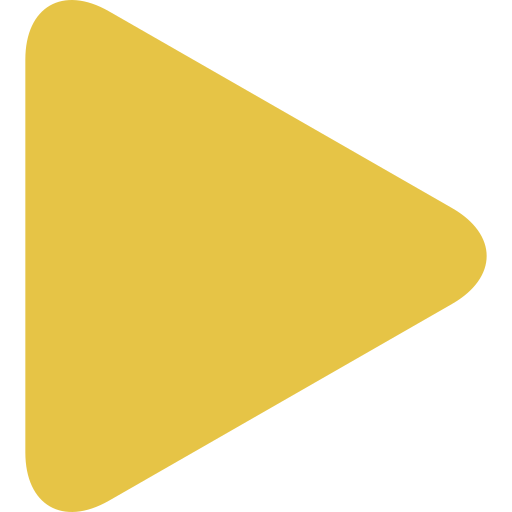
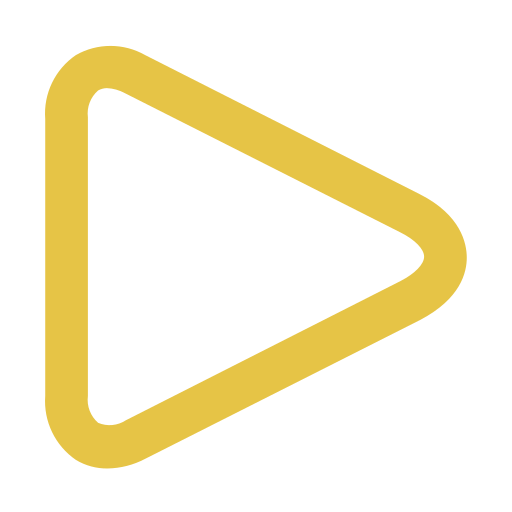
feat(assets): 全面更新投票標籤、愛心、面具、記錄與自訂庫之新版邊框圖示
- 將 vote-tag.png 替換為 vote-tag-edge.png
- 將 heart.png 替換為 heart-edge.png
- 將 mask.png 替換為 mask-edge.png
- 將 history.png 替換為 history-edge.png
- 將 anonymous.png 替換為 character-lib.png
- 於 tests/scriptSetup.test.js 同步更新圖檔路徑單元測試斷言
feat(assets): 全面更新投票標籤、愛心、面具、記錄與自訂庫之新版邊框圖示

- 將 vote-tag.png 替換為 vote-tag-edge.png
- 將 heart.png 替換為 heart-edge.png
- 將 mask.png 替換為 mask-edge.png
- 將 history.png 替換為 history-edge.png
- 將 anonymous.png 替換為 character-lib.png
- 於 tests/scriptSetup.test.js 同步更新圖檔路徑單元測試斷言

diff --git a/src/components/SettingsPanel.vue b/src/components/SettingsPanel.vue
@@ -30,7 +30,7 @@
           <div class="stat-card" title="有效票數">
             <!-- <span class="stat-icon">🗳</span> -->
             <span class="stat-icon">
-              <img src="/pic/vote-tag.png" alt="有效票數" class="stat-img img-vote-yes" />
+              <img src="/pic/vote-tag-edge.png" alt="有效票數" class="stat-img img-vote-yes" />
             </span>
             <span class="stat-card-val">{{ totalVotes }}</span>
             <span class="stat-card-label">有效票數</span>
@@ -38,7 +38,7 @@
           <div class="stat-card" title="存活人數">
             <!-- <span class="stat-card-icon">❤</span> -->
             <span class="stat-icon">
-              <img src="/pic/heart.png?v=2" alt="有效票數" class="stat-img img-heart" />
+              <img src="/pic/heart-edge.png" alt="有效票數" class="stat-img img-heart" />
             </span>
             <span class="stat-card-val">{{ gameStore.alive }}</span>
             <span class="stat-card-label">存活人數</span>
@@ -68,7 +68,7 @@
           </button>
 
           <button class="grid-item" @click="openVoting">
-            <span class="grid-icon"><img src="/pic/vote-tag.png" class="grid-img" /></span>
+            <span class="grid-icon"><img src="/pic/vote-tag-edge.png" class="grid-img" /></span>
             <span class="grid-label">投票面板</span>
           </button>
 
@@ -86,7 +86,7 @@
           </button>
 
           <button class="grid-item" @click="openGameLog">
-            <span class="grid-icon"><img src="/pic/history.png" class="grid-img" /></span>
+            <span class="grid-icon"><img src="/pic/history-edge.png" class="grid-img" /></span>
             <span class="grid-label">對局記錄</span>
           </button>
 
@@ -101,7 +101,7 @@
           </button>
 
           <button class="grid-item" @click="openCharacterEditor">
-            <span class="grid-icon"><img src="/pic/anonymous.png" class="grid-img" /></span>
+            <span class="grid-icon"><img src="/pic/character-lib.png" class="grid-img" /></span>
             <span class="grid-label">自訂庫</span>
           </button>
 
@@ -161,7 +161,7 @@
           </button>
 
           <button class="grid-item" @click="restoreDefaultCharacters">
-            <span class="grid-icon"><img src="/pic/anonymous.png" class="grid-img" /></span>
+            <span class="grid-icon"><img src="/pic/character-lib.png" class="grid-img" /></span>
             <span class="grid-label">重置預設角色</span>
           </button>
 

diff --git a/src/components/PlayerControlSheet.vue b/src/components/PlayerControlSheet.vue
@@ -38,20 +38,20 @@
           <div class="action-grid">
             <template v-if="player.is_alive">
               <button class="action-btn death-btn" @click="handleKill">
-                <img src="/pic/half.png" class="action-btn-img" />
+                <img src="/pic/skull.png" class="action-btn-img" />
                 <span class="label">死亡</span>
                 <span v-if="isProtected" class="warning-badge" title="注意：該玩家目前有保護標記">⚠被保護</span>
               </button>
             </template>
             <template v-else>
               <button class="action-btn revive-btn" @click="handleRevive">
-                <img src="/pic/heart.png?v=2" class="action-btn-img" />
+                <img src="/pic/heart-edge.png" class="action-btn-img" />
                 <span class="label">復活</span>
               </button>
             </template>
 
             <button class="action-btn role-btn" @click="handleRolePicker">
-              <img src="/pic/mask.png" class="action-btn-img" />
+              <img src="/pic/mask-edge.png" class="action-btn-img" />
               <span class="label">變更角色</span>
             </button>
 
@@ -70,7 +70,7 @@
                 @click="handleNominateHim"
                 :disabled="player.is_nominated"
               >
-                <img src="/pic/vote-tag.png" class="action-btn-img" />
+                <img src="/pic/vote-tag-edge.png" class="action-btn-img" />
                 <span class="label">被提名</span>
               </button>
             </template>

diff --git a/src/components/StatusBar.vue b/src/components/StatusBar.vue
@@ -69,14 +69,14 @@
         <span class="stat-item votes" v-if="gameStore.phase === 'Day'" title="有效票數">
           <!-- <span class="stat-icon">🗳</span> -->
           <span class="stat-icon">
-            <img src="/pic/vote-tag.png" alt="有效票數" class="stat-img img-vote-yes" />
+            <img src="/pic/vote-tag-edge.png" alt="有效票數" class="stat-img img-vote-yes" />
           </span>
           <span class="stat-num">{{ totalVotes }}</span>
         </span>
         <span class="stat-item alive" title="存活人數">
           <!-- <span class="stat-icon">❤</span> -->
           <span class="stat-icon">
-            <img src="/pic/heart.png?v=2" alt="有效票數" class="stat-img img-heart" />
+            <img src="/pic/heart-edge.png" alt="有效票數" class="stat-img img-heart" />
           </span>
           <span class="stat-num">{{ gameStore.alive }}</span>
         </span>
@@ -253,7 +253,7 @@ const totalVotes = computed(() => {
 .stat-item.minion    { color: #ec7063; }
 .stat-item.demon     { color: #f1948a; }
 .stat-item.traveler  { color: #b46baf; }
-.stat-item.nominations { color: #f39c12; }
+.stat-item.nominations { color: #ffffff; }
 
 .stat-num {
   font-weight: 700;

diff --git a/src/components/VotingPanel.vue b/src/components/VotingPanel.vue
@@ -2,7 +2,7 @@
   <div class="overlay" @click.self="uiStore.closePanel()">
     <div class="voting-panel panel animate-slide-up">
       <div class="panel-header">
-        <span class="panel-icon"><img src="/pic/vote-tag.png" class="panel-header-icon" /></span>
+        <span class="panel-icon"><img src="/pic/vote-tag-edge.png" class="panel-header-icon" /></span>
         <h2 class="panel-title">投票管理</h2>
         <button class="close-btn" @click="uiStore.closePanel()">✕</button>
       </div>
@@ -159,7 +159,7 @@
                   <span v-if="!p.is_alive" class="vote-ghost-icon"><img src="/pic/grave.png" class="vote-ghost-img" /></span>
                   <span class="vote-player" :style="{ color: getPlayerColor(p.id) }">{{ idx + 1 }}. {{ p.name }}</span>
                 </div>
-                <span v-if="nom.votes_for.includes(p.id)" class="vote-mark"><img src="/pic/vote-tag.png" class="vote-yes-img" /></span>
+                <span v-if="nom.votes_for.includes(p.id)" class="vote-mark"><img src="/pic/vote-tag-edge.png" class="vote-yes-img" /></span>
               </button>
             </div>
 

diff --git a/src/components/ScriptEditorPanel.vue b/src/components/ScriptEditorPanel.vue
@@ -205,7 +205,7 @@
               </div>
               <div class="batch-actions">
                 <button class="action-btn-mini success" @click="selectAllFilteredRoles" title="全選當前篩選的角色">
-                  <img src="/pic/vote-tag.png" class="btn-icon-img" />全選
+                  <img src="/pic/vote-tag-edge.png" class="btn-icon-img" />全選
                 </button>
                 <button class="action-btn-mini danger" @click="clearAllFilteredRoles" title="清空當前篩選的角色">
                   <img src="/pic/rubber.png" class="btn-icon-img" />清空

diff --git a/src/components/FabledSelectorPanel.vue b/src/components/FabledSelectorPanel.vue
@@ -4,7 +4,7 @@
       <div class="panel-header">
         <!-- <span class="panel-icon">🎭</span> -->
         <span class="stat-icon">
-            <img src="/pic/mask.png" alt="有效票數" class="stat-img img-mask" />
+            <img src="/pic/mask-edge.png" alt="有效票數" class="stat-img img-mask" />
             </span>
         <h2 class="panel-title">傳說角色設定</h2>
         <button class="close-btn" @click="uiStore.closePanel()">✕</button>

diff --git a/src/components/Whiteboard.vue b/src/components/Whiteboard.vue
@@ -147,7 +147,7 @@
             :class="{ success: copied }"
           >
             <span class="icon">
-              <img v-if="copied" src="/pic/vote-tag.png" class="btn-image-icon" />
+              <img v-if="copied" src="/pic/vote-tag-edge.png" class="btn-image-icon" />
               <img v-else src="/pic/copy.png" class="btn-image-icon" />
             </span> 
             {{ copied ? '已複製內容' : '複製全部文字' }}

diff --git a/src/components/PlayerToken.vue b/src/components/PlayerToken.vue
@@ -47,7 +47,7 @@
             class="can-be-nominated-indicator"
             title="今日尚可被提名"
           >
-            <img src="/pic/vote-tag.png" class="status-indicator-img" />
+            <img src="/pic/vote-tag-edge.png" class="status-indicator-img" />
           </span>
           <span
             v-if="!player.is_alive && (player.has_ghost_vote || (player.extra_votes && player.extra_votes > 0))"

diff --git a/src/components/GrimoireBoard.vue b/src/components/GrimoireBoard.vue
@@ -2010,7 +2010,7 @@ const activePanelComponent = computed(() => {
   justify-content: center;
   gap: 4px;
   cursor: pointer;
-  color: #d2b48c;
+  color: #E6C446;
   transition: all 0.3s ease;
   order: 4; /* 最下方 */
 }
